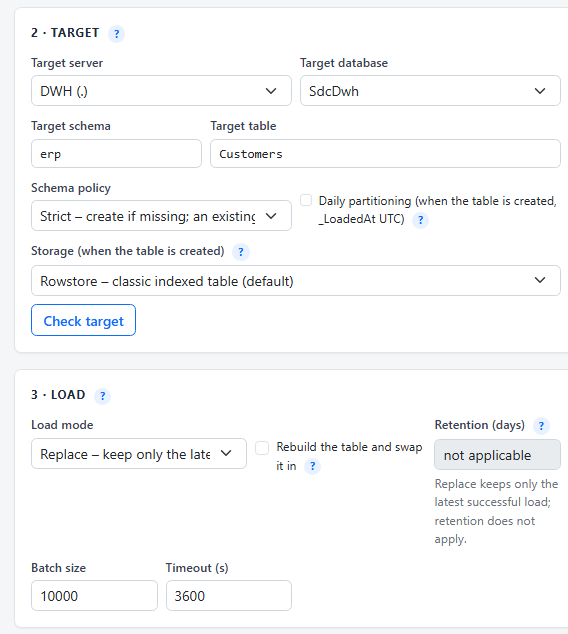
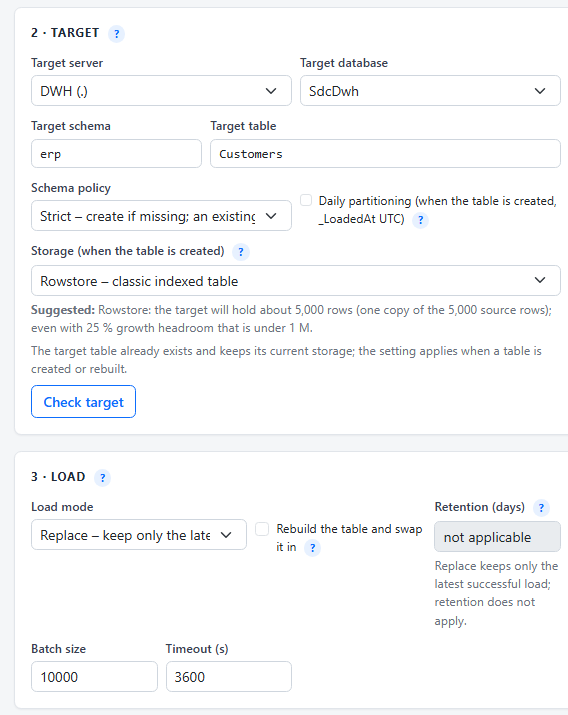
Suggest the target storage of new extract jobs from the expected table size
- StorageAdvisor estimates the rows the target will hold - Append: source rows x loads
  per day (from the schedule) x days kept (one year when kept forever); Replace, Merge,
  Incremental: about the source rows - adds 25 % growth headroom and suggests
  Columnstore from 1 million rows. Merge only from 10 million: updates are a delete plus
  an insert in a columnstore (measured about 2x slower than a PAGE rowstore). Views,
  queries and tables with xml/sql_variant columns get Rowstore.
- Extract form: a new job follows the suggestion until the user picks a storage; the
  reason is shown under the field, "Use ..." takes a differing suggestion; existing
  jobs only show it. With several tables every table gets its own suggestion (Storage
  column of the list); suggested columnstore tables with xml/sql_variant columns fall
  back to Rowstore when saved. The note that an existing target table keeps its layout
  now also appears when an existing job is opened.
- Measured on 1.8 M rows (rowstore / PAGE / columnstore): reports as fast, exports of a
  load up to 2x faster, lookups without an index faster, 7 MB vs 62 MB vs 249 MB;
  updates slower, inserts faster.
- Unit tests for the advisor (thresholds, growth headroom, Append multiplier, Merge,
  unknown sizes, xml, runs per day). Help (English and Turkish), README; extract form
  screenshots refreshed.

diff --git a/src/SqlDataCollector.Core/Services/StorageAdvisor.cs b/src/SqlDataCollector.Core/Services/StorageAdvisor.cs
@@ -1,0 +1,95 @@
+using System.Globalization;
+using SqlDataCollector.Models;
+
+namespace SqlDataCollector.Services;
+
+/// <summary>A storage suggestion with the estimated size of the target table and a reason for the UI.</summary>
+public sealed record StorageAdvice(TargetStorage Storage, long? EstimatedRows, string Reason);
+
+/// <summary>
+/// Suggests the target storage of a new table from the size it will reach – not only from the source today:
+/// Append keeps one copy per run for the retention period, the other modes hold about one copy of the source.
+/// A growth headroom keeps tables just below the threshold from outgrowing their layout soon after they are created.
+/// </summary>
+public static class StorageAdvisor
+{
+    /// <summary>From this many rows in the target a columnstore loads clearly faster and is much smaller (measured: 4× / 12×).</summary>
+    public const long ColumnstoreThreshold = 1_000_000;
+    /// <summary>
+    /// Merge rewrites changed rows, and an update in a columnstore is a delete plus an insert (measured: about 2× slower than a
+    /// PAGE compressed rowstore, 4× slower than an uncompressed one). Only from this size do the smaller table and faster scans outweigh it.
+    /// </summary>
+    public const long MergeColumnstoreThreshold = 10_000_000;
+    /// <summary>Growth headroom: a table of 800,000 rows already gets a columnstore (800,000 × 1.25 = 1,000,000).</summary>
+    public const double GrowthBuffer = 1.25;
+    /// <summary>Planning horizon of an Append job that keeps its loads forever.</summary>
+    public const int KeepForeverDays = 365;
+
+    public static StorageAdvice Suggest(long? sourceRows, LoadMode mode, int? retentionDays, double runsPerDay,
+        IReadOnlyCollection<string>? unsupportedColumns = null)
+    {
+        if (unsupportedColumns is { Count: > 0 })
+            return new(TargetStorage.Rowstore, null,
+                $"Rowstore: a columnstore cannot hold the xml / sql_variant column(s) {string.Join(", ", unsupportedColumns)}.");
+        if (sourceRows is not { } rows || rows < 0)
+            return new(TargetStorage.Rowstore, null, "Rowstore: the size of the source is unknown (a view or a query) – choose Columnstore yourself for large data.");
+
+        double estimate;
+        string detail;
+        if (mode == LoadMode.Append)
+        {
+            var perDay = Math.Max(runsPerDay, 1.0 / 7);   // at least one load a week
+            var days = retentionDays is > 0 ? retentionDays.Value : KeepForeverDays;
+            var copies = Math.Max(1, perDay * days);
+            estimate = rows * copies;
+            detail = $"{Format(rows)} source rows × {Format(perDay)} load(s) a day × {days} days kept{(retentionDays is > 0 ? "" : " (kept forever: one year planned)")}";
+        }
+        else
+        {
+            estimate = rows;
+            detail = mode == LoadMode.Incremental
+                ? $"at least the {Format(rows)} source rows, growing with every change"
+                : $"one copy of the {Format(rows)} source rows";
+        }
+
+        var est = (long)Math.Min(estimate, long.MaxValue / 2);
+        if (mode == LoadMode.Merge)
+            return estimate * GrowthBuffer >= MergeColumnstoreThreshold
+                ? new(TargetStorage.Columnstore, est,
+                    $"Columnstore: the target will hold about {Format(est)} rows ({detail}); with 25 % growth headroom that is over {Format(MergeColumnstoreThreshold)}, " +
+                    "where the smaller table and faster scans outweigh the slower updates of Merge.")
+                : new(TargetStorage.Rowstore, est,
+                    $"Rowstore: Merge updates changed rows, and updates are about 2× slower in a columnstore; it pays off only from {Format(MergeColumnstoreThreshold)} rows " +
+                    $"(this target: about {Format(est)}, {detail}).");
+        return estimate * GrowthBuffer >= ColumnstoreThreshold
+            ? new(TargetStorage.Columnstore, est,
+                $"Columnstore: the target will hold about {Format(est)} rows ({detail}); with 25 % growth headroom that is over {Format(ColumnstoreThreshold)}.")
+            : new(TargetStorage.Rowstore, est,
+                $"Rowstore: the target will hold about {Format(est)} rows ({detail}); even with 25 % growth headroom that is under {Format(ColumnstoreThreshold)}.");
+    }
+
+    /// <summary>Runs per day of a schedule (counted over the next week); jobs started by other jobs count as one run a day.</summary>
+    public static double RunsPerDay(JobTriggerMode mode, string? cron, string? timeZoneId)
+    {
+        if (mode == JobTriggerMode.AfterJobs || string.IsNullOrWhiteSpace(cron)) return 1;
+        const int cap = 7 * 288;   // every 5 minutes for a week is plenty for an estimate
+        var (ok, _, next) = JobRegistrar.Preview(cron, timeZoneId ?? "UTC", cap);
+        if (!ok || next.Count == 0) return 1;
+        var until = next[0].AddDays(7);
+        return Math.Max(next.Count(n => n < until), 1) / 7.0;
+    }
+
+    /// <summary>"950,000", "13.5 M", "0.14" (runs per day).</summary>
+    public static string Format(double value) => value switch
+    {
+        >= 1_000_000 => (value / 1_000_000).ToString("0.#", CultureInfo.InvariantCulture) + " M",
+        >= 10 => value.ToString("N0", CultureInfo.InvariantCulture),
+        _ => value.ToString(value % 1 == 0 ? "0" : "0.##", CultureInfo.InvariantCulture)
+    };
+
+    /// <summary>Column names of a column list whose type a columnstore cannot hold.</summary>
+    public static IReadOnlyList<string> UnsupportedColumns(IEnumerable<(string Name, string TypeDeclaration)> columns) =>
+        columns.Where(c => c.TypeDeclaration.StartsWith("xml", StringComparison.OrdinalIgnoreCase)
+                        || c.TypeDeclaration.StartsWith("sql_variant", StringComparison.OrdinalIgnoreCase))
+               .Select(c => c.Name).ToList();
+}

diff --git a/tests/SqlDataCollector.Tests/Unit/StorageAdvisorTests.cs b/tests/SqlDataCollector.Tests/Unit/StorageAdvisorTests.cs
@@ -1,0 +1,83 @@
+using SqlDataCollector.Models;
+using SqlDataCollector.Services;
+
+namespace SqlDataCollector.Tests.Unit;
+
+public class StorageAdvisorTests
+{
+    [Theory]
+    [InlineData(5_000_000, LoadMode.Replace, TargetStorage.Columnstore)]
+    [InlineData(800_000, LoadMode.Replace, TargetStorage.Columnstore)]    // 800,000 × 1.25 = 1,000,000: the growth headroom tips it
+    [InlineData(790_000, LoadMode.Replace, TargetStorage.Rowstore)]
+    [InlineData(8_000_000, LoadMode.Merge, TargetStorage.Columnstore)]    // Merge: 10 M threshold (slower updates), 8 M × 1.25 = 10 M
+    [InlineData(7_900_000, LoadMode.Merge, TargetStorage.Rowstore)]
+    [InlineData(2_000_000, LoadMode.Merge, TargetStorage.Rowstore)]
+    [InlineData(5_000, LoadMode.Replace, TargetStorage.Rowstore)]
+    [InlineData(900_000, LoadMode.Incremental, TargetStorage.Columnstore)]
+    public void CurrentStateModes_UseTheSourceSize_WithGrowthHeadroom(long rows, LoadMode mode, TargetStorage expected)
+    {
+        var a = StorageAdvisor.Suggest(rows, mode, retentionDays: 30, runsPerDay: 1);
+        Assert.Equal(expected, a.Storage);
+        Assert.Equal(rows, a.EstimatedRows);
+        Assert.StartsWith(expected.ToString(), a.Reason);
+    }
+
+    [Fact]
+    public void Merge_ExplainsWhyItStaysRowstore()
+    {
+        var a = StorageAdvisor.Suggest(2_000_000, LoadMode.Merge, null, 1);
+        Assert.Contains("updates are about 2× slower in a columnstore", a.Reason);
+        Assert.Contains("10 M", a.Reason);
+    }
+
+    [Fact]
+    public void Append_MultipliesTheSourceByTheLoadsThatAreKept()
+    {
+        // 50,000 rows a night kept for 30 days = 1.5 M rows in the target, although the source is small
+        var daily = StorageAdvisor.Suggest(50_000, LoadMode.Append, retentionDays: 30, runsPerDay: 1);
+        Assert.Equal(TargetStorage.Columnstore, daily.Storage);
+        Assert.Equal(1_500_000, daily.EstimatedRows);
+        Assert.Contains("50,000 source rows × 1 load(s) a day × 30 days kept", daily.Reason);
+
+        // the same table kept for 7 days stays small
+        Assert.Equal(TargetStorage.Rowstore, StorageAdvisor.Suggest(50_000, LoadMode.Append, 7, 1).Storage);
+        // keep forever: one year is planned
+        var forever = StorageAdvisor.Suggest(5_000, LoadMode.Append, null, 1);
+        Assert.Equal(1_825_000, forever.EstimatedRows);
+        Assert.Contains("kept forever", forever.Reason);
+        // every 15 minutes
+        Assert.Equal(TargetStorage.Columnstore, StorageAdvisor.Suggest(1_000, LoadMode.Append, 14, 96).Storage);
+    }
+
+    [Fact]
+    public void UnknownSizes_AndUnsupportedColumns_SuggestRowstore()
+    {
+        var unknown = StorageAdvisor.Suggest(null, LoadMode.Replace, 30, 1);
+        Assert.Equal(TargetStorage.Rowstore, unknown.Storage);
+        Assert.Null(unknown.EstimatedRows);
+        Assert.Contains("unknown", unknown.Reason);
+
+        var xml = StorageAdvisor.Suggest(50_000_000, LoadMode.Replace, 30, 1, ["Doc"]);
+        Assert.Equal(TargetStorage.Rowstore, xml.Storage);
+        Assert.Contains("Doc", xml.Reason);
+
+        Assert.Equal(["Doc", "Any"], StorageAdvisor.UnsupportedColumns([("Id", "int"), ("Doc", "xml"), ("Any", "sql_variant"), ("Name", "nvarchar(50)")]));
+    }
+
+    [Theory]
+    [InlineData("0 2 * * *", 1)]
+    [InlineData("*/15 * * * *", 96)]
+    [InlineData("0 */6 * * *", 4)]
+    public void RunsPerDay_CountsTheScheduleOverAWeek(string cron, double expected) =>
+        Assert.Equal(expected, StorageAdvisor.RunsPerDay(JobTriggerMode.Schedule, cron, "UTC"), 1);
+
+    [Fact]
+    public void RunsPerDay_WeeklyAndTriggeredJobs()
+    {
+        Assert.Equal(1 / 7.0, StorageAdvisor.RunsPerDay(JobTriggerMode.Schedule, "0 3 * * 1", "UTC"), 3);
+        Assert.Equal(1, StorageAdvisor.RunsPerDay(JobTriggerMode.AfterJobs, "0 3 * * 1", "UTC"));
+        Assert.Equal(1, StorageAdvisor.RunsPerDay(JobTriggerMode.Schedule, "not a cron", "UTC"));
+        Assert.Equal("13.5 M", StorageAdvisor.Format(13_500_000));
+        Assert.Equal("950,000", StorageAdvisor.Format(950_000));
+    }
+}

diff --git a/README.md b/README.md
@@ -82,7 +82,11 @@ Both shared variants may add an export Worker on the target SQL host (`deploy/sh
 - **Target storage** per job: *Rowstore* (clustered index + two nonclustered indexes, default) or *Columnstore* (one
   clustered columnstore index; bulk loads go straight into compressed rowgroups). Measured on 450,000 rows: rowstore with
   PAGE compression 18.4 s, columnstore 4.3 s – and much smaller tables. Works with every load mode and daily partitions;
-  no xml/sql_variant columns; applies when the table is created (existing tables keep their layout)
+  no xml/sql_variant columns; applies when the table is created (existing tables keep their layout).
+  New jobs get a **storage suggestion** that is applied until the user picks one: estimated target rows (Append: source
+  rows × loads per day × days kept; other modes: source rows) plus 25 % growth headroom, Columnstore from 1 million rows
+  (Merge from 10 million: updates are about 2× slower in a columnstore); per table when several tables are selected.
+  Measured on 1.8 M rows: reports as fast, exports up to 2× faster, lookups without index faster, 8× smaller than PAGE
 - Technical columns on every target table: `_LoadId`, `_LoadedAt`, `_ExtractJobId`, `_SourceServer`
 - Failed loads are rolled back; loads interrupted by a crash are cleaned up by the next sync
 - decimal(38,x) values are transferred exactly (`SqlDecimal`)
